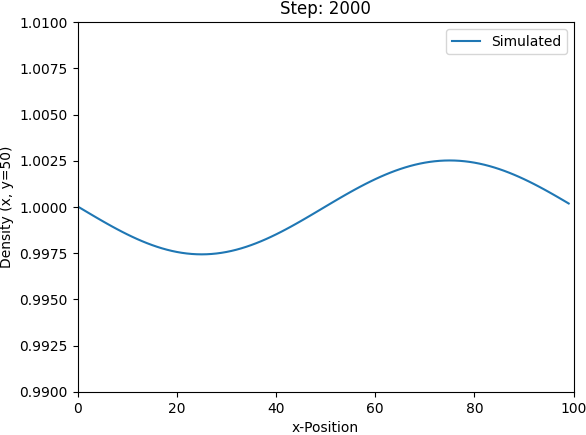
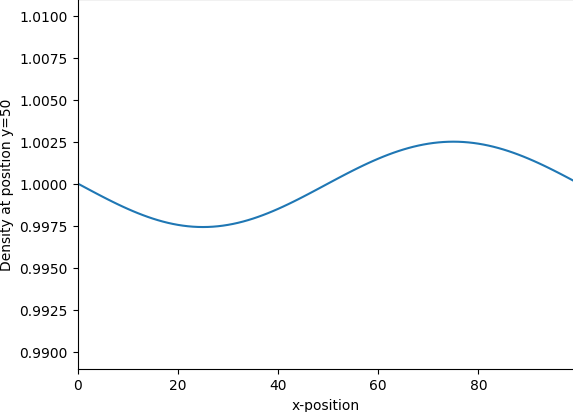
Add code

Changed region(s): [[0.0, 0.0, 1.0, 0.9612], [0.5044, 0.9612, 0.623, 1.0]]

diff --git a/visualisation/plot.py b/visualisation/plot.py
@@ -32,6 +32,7 @@ class ShearWavePlotter(Plotter):
         self.p0 = p0
         self.epsilon = epsilon
         self.omega = omega
+        self.padding_y = epsilon * 1.1
 
     def gather_quantities(self, velocities, rho):
         if self.sub_experiment == "density":
@@ -39,52 +40,53 @@ class ShearWavePlotter(Plotter):
         else:
             self.quantities.append(np.max(np.abs(velocities[0, :, :])))
 
-    def calculate_analytical_sol(epsilon: float, viscosity: float, t: int, coordinates: np.ndarray, len_space: int):
+    def calculate_analytical_sol(self, epsilon: float, viscosity: float, t: int, coordinates: np.ndarray, len_space: int):
         return epsilon * np.exp(- viscosity * (2.0 * np.pi / len_space) ** 2 * t) * np.sin(
             2.0 * np.pi / len_space * coordinates)
 
     def plot(self, velocities, rho, step):
         if self.sub_experiment == "density":
             self.ax.cla()
-            self.ax.set_xlim([0, self.nx])
-            self.ax.set_ylim([self.p0 -self.epsilon, self.p0 + self.epsilon])
-            self.ax.plot(np.arange(self.nx), rho[:, self.ny//2], label='Simulated')
-            self.ax.set_xlabel('x-Position')
-            self.ax.set_ylabel(f'Density (x, y={self.ny // 2})')
-            self.ax.set_title(f'Step: {step}')
-            self.ax.legend()
+            self.ax.set_xlim([0, self.nx-1])
+            self.ax.set_ylim([self.p0 - self.padding_y, self.p0 + self.padding_y])
+            self.ax.plot(np.arange(self.nx), rho[:, self.ny//2])
+            self.ax.set_xlabel('x-position')
+            self.ax.set_ylabel(f'Density at position y={self.ny // 2}')
+            #self.ax.set_title(f'Step: {step}')
+            #self.ax.legend()
             save_path = os.path.join(
                 self.path, f'density_decay_{step}.png')
             self.fig.savefig(save_path, bbox_inches='tight', pad_inches=0)
         else:
             self.ax.cla()
-            self.ax.set_xlim([0, self.nx])
-            self.ax.set_ylim([-self.epsilon, self.epsilon])
+            self.ax.set_xlim([0, self.nx - 1])
+            self.ax.set_ylim([-self.padding_y, self.padding_y])
             self.ax.plot(np.arange(self.ny), velocities[0, self.nx//2, :], label='Simulated')
             viscosity = CS ** 2 * (1.0 / self.omega - 0.5)
             self.ax.plot(np.arange(self.ny), self.calculate_analytical_sol(self.epsilon, viscosity, step, np.arange(self.ny), self.ny),
-                        label="Analytical", linestyle='--', dashes=(4, 7))
-            self.ax.set_xlabel('y-Position')
-            self.ax.set_ylabel(f'Velocity $u_x$(x={self.nx // 2}, y)')
-            self.ax.legend()
+                        label="Analytical", linestyle='--')
+            self.ax.set_xlabel('y-position')
+            self.ax.set_ylabel(f'Velocity at position x={self.nx // 2}')
+            if(step == 0):
+                self.ax.legend()
             save_path = os.path.join(
                 self.path, f'shear_wave_{step}.png')
             self.fig.savefig(save_path, bbox_inches='tight', pad_inches=0)
 
     def return_viscosity(self, steps):
+        x = np.arange(steps)
+        coef = 2 * np.pi / self.ny
         if self.sub_experiment == 'density':
             self.quantities = np.array(self.quantities)
             x = argrelextrema(self.quantities, np.greater)[0]
             self.quantities = self.quantities[x]
-        else:
-            x = np.arange(steps)
-
-        coef = 2 * np.pi / self.nx
-        simulated_viscosity = curve_fit(
+            coef = 2 * np.pi / self.nx
+       
+        sim_visc = curve_fit(
             lambda t, visc: self.epsilon * np.exp(-visc * t * coef ** 2), xdata=x, ydata=self.quantities)[0][0]
-        analytical_viscosity = (1/3) * ((1/self.omega) - 0.5)
+        ana_visc = (1/3) * ((1/self.omega) - 0.5)
 
-        return simulated_viscosity, analytical_viscosity
+        return sim_visc, ana_visc
 
 
 class CouetteFlowPlotter(Plotter):

diff --git a/main.py b/main.py
@@ -60,8 +60,8 @@ def run_sliding_lid_mpi_sim(args):
 parser = argparse.ArgumentParser(prog='Lattice Boltzmann Method', description='Can run different LBM simulations')
 parser.add_argument('-nx', '--nx', type=int, help='Number of lattice points in x direction', default=100)
 parser.add_argument('-ny', '--ny', type=int, help='Number of lattice points in y direction', default=50)
-parser.add_argument('-ts', '--total_steps', type=int, help='Total number of steps', required=True)
-parser.add_argument('-ps', '--plot_every', type=int, help='Plot every n steps', required=True)
+parser.add_argument('-ts', '--total_steps', type=int, help='Total number of steps', default=5000)
+parser.add_argument('-ps', '--plot_every', type=int, help='Plot every n steps', default=500)
 parser.add_argument('-out', '--output_dir', type=str, help='Output directory', default='results')
 
 sub_parser = parser.add_subparsers(help='sub-command help', required=True)
@@ -70,7 +70,7 @@ shear_wave_parser = sub_parser.add_parser('shear_wave', help='shear_wave help')
 shear_wave_parser.add_argument('-o', '--omega', type=float, help='Omega', default=1.0)
 shear_wave_parser.add_argument('-ep', '--epsilon', type=float, help='Epsilon', default=0.01)
 shear_wave_parser.add_argument('-p0', '--p0', type=float, help='P0', default=1.0)
-shear_wave_parser.add_argument('-ex', '--experiment', type=str, choices=['density', 'velocity'], help='Experiment', required=True)
+shear_wave_parser.add_argument('-exp', '--experiment', type=str, choices=['density', 'velocity'], help='Experiment', required=True)
 shear_wave_parser.set_defaults(func=run_shear_wave_sim)
 
 shear_wave_viscosity_parser = sub_parser.add_parser('shear_wave_viscosity', help='shear_wave help')
